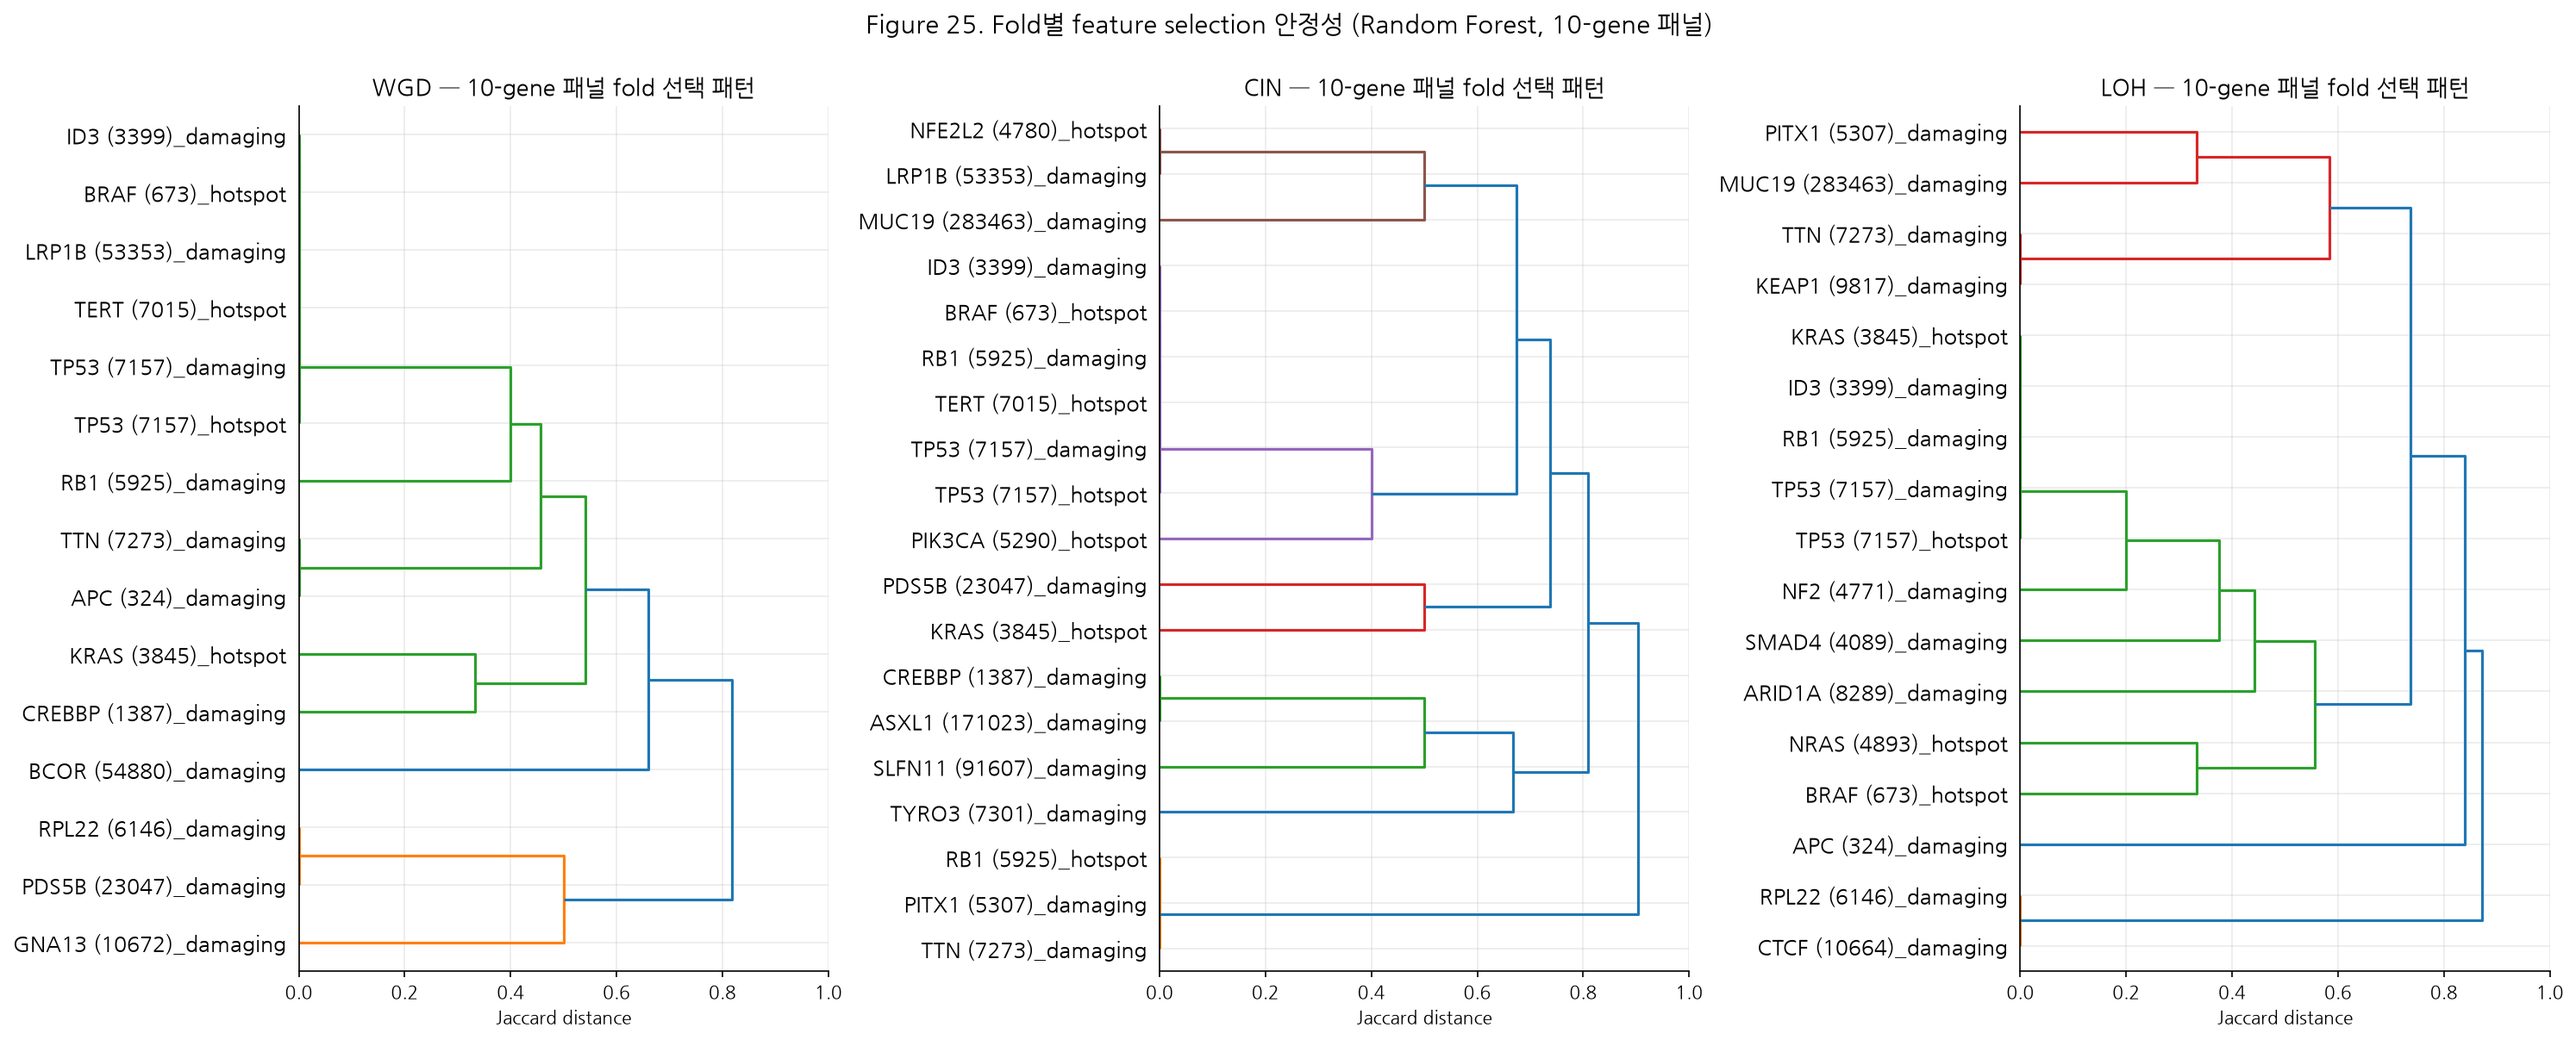
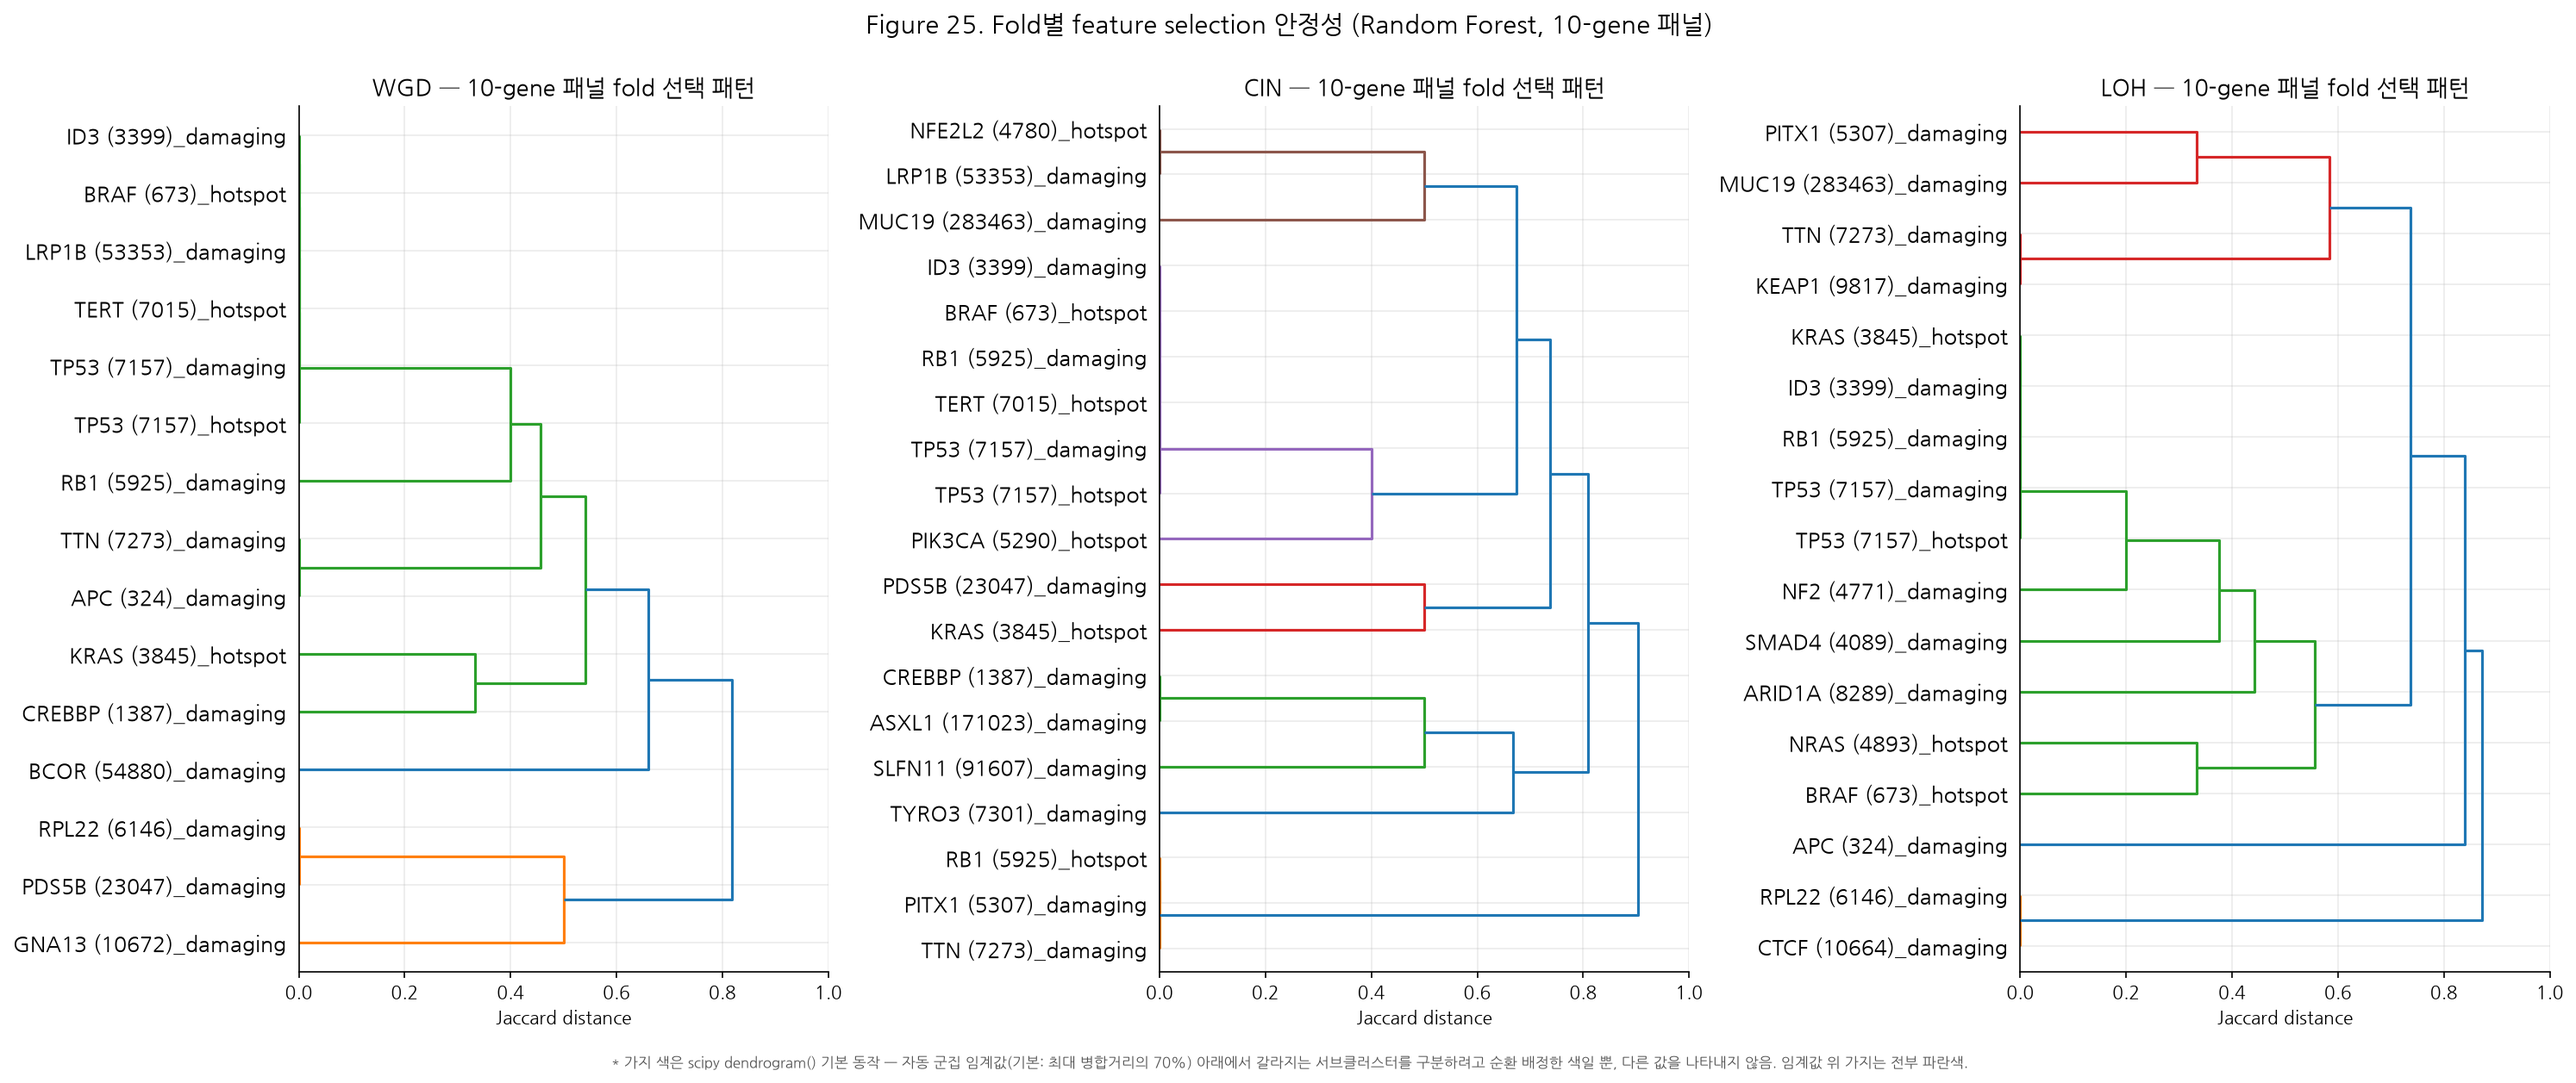
scripts: Fig25/25b/25c에 가지 색 의미 각주 추가
scipy dendrogram()의 색은 자동 군집 임계값(기본 최대 병합거리의 70%)
아래 서브클러스터를 구분하려는 순환 배정일 뿐 다른 값을 나타내지
않는다는 걸 각주로 명시(Fig25/25b). Fig25c는 고정 순서로 직접 그린
트리라 서브클러스터 색 구분 없이 단색만 쓴다는 것도 별도로 명시.

diff --git a/scripts/48_plot_selection_dendrogram.py b/scripts/48_plot_selection_dendrogram.py
@@ -42,6 +42,9 @@ TARGETS = {"wgd": "WGD", "cin": "CIN", "loh": "LOH"}
 MODEL_LABEL = {"random_forest": "Random Forest", "elastic_net": "Elastic Net"}
 MIN_LINEAGE_N = 10
 TOP_N_LINEAGE_ROWS = 8
+COLOR_NOTE = ("* 가지 색은 scipy dendrogram() 기본 동작 — 자동 군집 임계값(기본: 최대 병합거리의 70%) "
+              "아래에서 갈라지는 서브클러스터를 구분하려고 순환 배정한 색일 뿐, 다른 값을 나타내지 않음. "
+              "임계값 위 가지는 전부 파란색.")
 
 
 def selection_matrix(model: str, target: str, panel_size: int) -> pd.DataFrame:
@@ -95,6 +98,7 @@ def plot_lineage_dendrogram(model: str, panel_size: int) -> Path:
     fig.suptitle(f"Figure 25b. 암종(lineage)별 패널 유전자 mutation 프로파일 군집 "
                  f"({MODEL_LABEL.get(model, model)}, {panel_size}-gene 패널, "
                  f"n≥{MIN_LINEAGE_N} 암종만)", y=1.0, fontsize=14)
+    fig.text(0.5, -0.02, COLOR_NOTE, ha="center", fontsize=8, color="#555")
     fig.tight_layout()
     return save(fig, f"fig25b_lineage_dendrogram_{model}_panel{panel_size}.png")
 
@@ -178,6 +182,9 @@ def plot_lineage_feature_dendrogram(model: str, panel_size: int, top_n: int = TO
     fig.suptitle(f"Figure 25c. 암종별 패널 유전자 co-mutation 패턴 (Figure 25와 같은 축, "
                  f"{MODEL_LABEL.get(model, model)}, {panel_size}-gene 패널, "
                  f"표본 수 상위 {top_n}개 암종, 유전자 순서는 열별로 고정)", y=0.985, fontsize=14)
+    fig.text(0.5, 0.005, "* 가지 색은 의미 없음 — 유전자 순서를 열별로 고정해서 직접 그린 트리라 "
+                          "서브클러스터 색 구분(Figure 25/25b 각주 참고) 없이 단색만 씀.",
+             ha="center", fontsize=9, color="#555")
     return save(fig, f"fig25c_lineage_feature_dendrogram_{model}_panel{panel_size}.png")
 
 
@@ -206,6 +213,7 @@ def main() -> int:
     fig.suptitle(f"Figure 25. Fold별 feature selection 안정성 "
                  f"({MODEL_LABEL.get(args.model, args.model)}, {args.panel_size}-gene 패널)",
                  y=1.0, fontsize=14)
+    fig.text(0.5, -0.02, COLOR_NOTE, ha="center", fontsize=8, color="#555")
     fig.tight_layout()
     path1 = save(fig, f"fig25_selection_dendrogram_{args.model}_panel{args.panel_size}.png")
 
